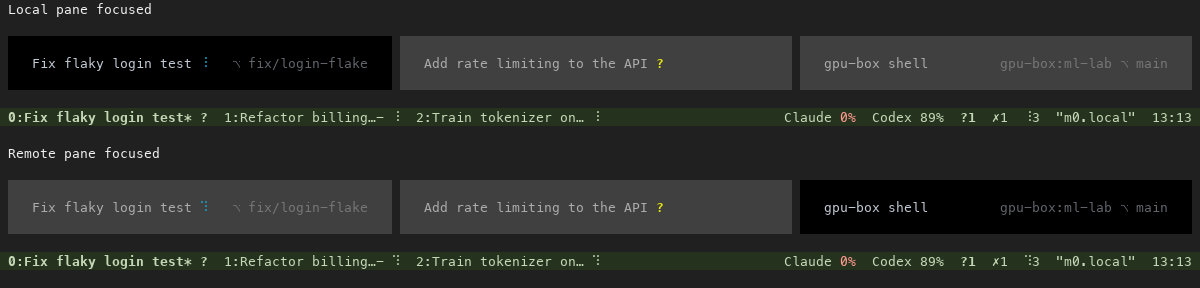
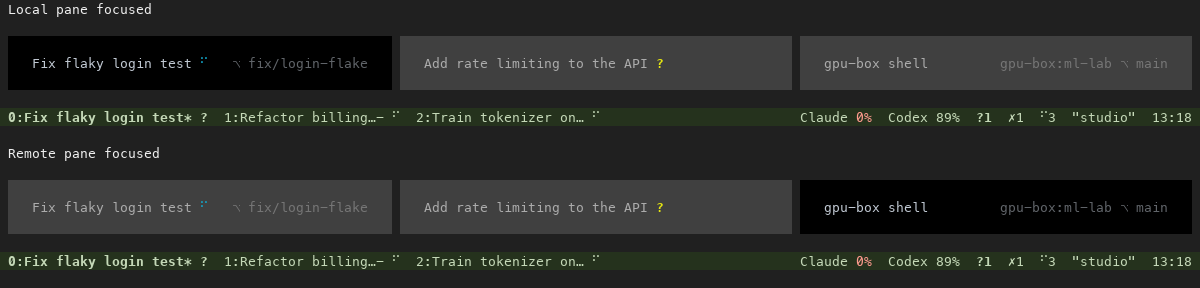
fix(hn): use the configured local machine name in the footer

Changed region(s): [[0.6475, 0.875, 0.9558, 0.9375], [0.6475, 0.375, 0.9558, 0.4375]]

diff --git a/tui/tests/pane-ui.py b/tui/tests/pane-ui.py
@@ -32,7 +32,7 @@ ENV.update(HOME=str(BASE), HN_TMPDIR=str(BASE), HN_SOCKET_NAME=PREFIX, PORT=str(
            HARNESS_TUI_NOTIFY='off', HN_DESKTOP='off', MOCK_DEMO='1', MOCK_RECONNECT='1', MOCK_USAGE='100')
 CONF = BASE / 'tmux.conf'
 CONF.write_text('set -g automatic-rename off\n'
-                'set -g status-right \'  #{usage_remaining_mark}  #{s/ /  /:fleet}  "#{=/21/…:host}"  20:41 \'\n')
+                'set -g status-right \'  #{usage_remaining_mark}  #{s/ /  /:fleet}  "#{=/21/…:local_machine}"  20:41 \'\n')
 OUTPUT = Path(os.environ['HN_PANE_UI_OUTPUT']) if os.environ.get('HN_PANE_UI_OUTPUT') else None
 if OUTPUT:
     OUTPUT.mkdir(parents=True, exist_ok=True)
@@ -223,12 +223,13 @@ try:
     hn('set', '-gu', 'status-right')
     default_status = hn('show', '-gv', 'status-right', strip=False)
     assert all(part not in default_status for part in ('pane_branch', 'pane_where', 'pane_machine', 'pane_current_path', 'pane_project', 'git:'))
-    assert value('#{host}') == socket.gethostname(), 'status host is the machine running hn'
-    host_label = value('"#{=/21/…:host}"')
-    assert host_label in value(default_status), (host_label, value(default_status))
-    def local_host_status():
+    assert value('#{host}') == socket.gethostname(), 'standard host format keeps its hostname meaning'
+    assert value('#{local_machine}') == 'studio', 'status uses the local machine name configured in the app'
+    machine_label = '"studio"'
+    assert machine_label in value(default_status), (machine_label, value(default_status))
+    def local_machine_status():
         line = tmux('capture-pane', '-p', '-t', 'test').splitlines()[-1]
-        return re.search(re.escape(host_label) + r'  \d{2}:\d{2}$', line.rstrip()) and '[' + session + ']' not in line
+        return re.search(re.escape(machine_label) + r'  \d{2}:\d{2}$', line.rstrip()) and '[' + session + ']' not in line
     def aligned_status_edges():
         line = tmux('capture-pane', '-p', '-t', 'test').splitlines()[-1]
         return re.match(r' \d+:', line) and len(line.rstrip()) == 149
@@ -240,13 +241,13 @@ try:
     for target in (third, second, first):
         hn('select-pane', '-t', target)
         assert value(default_left).strip() == ''
-        wait(local_host_status, 'quoted local host stays beside the clock across local and remote panes; no machine label on the left')
+        wait(local_machine_status, 'quoted local machine stays beside the clock across local and remote panes; no machine label on the left')
         if target in (first, third):
             snapshot('status-local' if target == first else 'status-remote')
     for window in hn('list-windows', '-F', '#{window_id}').splitlines():
         hn('select-window', '-t', window)
         assert value(default_left).strip() == ''
-        wait(local_host_status, 'quoted local host stays beside the clock in every window')
+        wait(local_machine_status, 'quoted local machine stays beside the clock in every window')
     hn('select-window', '-t', current)
     hn('select-pane', '-t', first)
     keys('C-b')
@@ -254,7 +255,7 @@ try:
     keys('Escape')
     hn('rename-session', 'work-review')
     assert value(default_left).strip() == '', 'renaming a session does not add a left label'
-    wait(local_host_status, 'renaming a session does not change the quoted host')
+    wait(local_machine_status, 'renaming a session does not change the quoted machine name')
     hn('set', '-g', 'status-left', '[custom] ')
     assert value(hn('show', '-gv', 'status-left')).strip() == '[custom]'
     hn('set', '-gu', 'status-left')

diff --git a/tui/src/options/mod.rs b/tui/src/options/mod.rs
@@ -93,12 +93,12 @@ pub fn defaults() -> &'static BTreeMap<String, String> {
         // has it] when another window has the pane to type in, and its project and branch
         // where there is room. Git context stays here; the status bar keeps the location cue.
         m.insert("pane-border-format".into(), " #{pane_heading}#{?pane_where,#[align=right] #[dim]#{pane_where} #[nodim],}".into());
-        // Window navigation on the left; connection, quota, fleet, host and clock on the
-        // right. The quoted host is this computer, independent of the focused pane.
+        // Window navigation on the left; connection, quota, fleet, machine and clock on the
+        // right. The quoted name is this computer's name in Harness, independent of focus.
         // One cell at each outer edge aligns status text with the pane surfaces.
         // Two spaces separate the window list from the information on the right.
         m.insert("status-left".into(), " #{?client_prefix,#[bold]›#[nobold] ,}".into());
-        m.insert("status-right".into(), "  #{?daemon_down,#[bold]daemon down#[nobold]  ,}#{?usage_remaining,#{usage_remaining_mark}  ,}#{?fleet,#{s/ /  /:fleet}  ,}#{?pane_watching,[watching]  ,}\"#{=/21/…:host}\"  %H:%M ".into());
+        m.insert("status-right".into(), "  #{?daemon_down,#[bold]daemon down#[nobold]  ,}#{?usage_remaining,#{usage_remaining_mark}  ,}#{?fleet,#{s/ /  /:fleet}  ,}#{?pane_watching,[watching]  ,}\"#{=/21/…:local_machine}\"  %H:%M ".into());
         // Each window's most urgent harness at a glance (the symbol its pane titles show) and its
         // name in a few whole words (#{window_short_name}): a harness is named for its task.
         // Keep tmux's familiar current/previous markers beside the name, then any other
@@ -118,7 +118,7 @@ pub fn defaults() -> &'static BTreeMap<String, String> {
         m.insert("set-titles-string".into(), "#{?fleet_needs,?#{fleet_needs} ,}#{pane_title}#{?pane_agent_state, (#{pane_agent_state}),} — Harness".into());
         // Leave room for custom status-left formats as well as the prefix cue.
         m.insert("status-left-length".into(), "24".into());
-        // Room for both subscription allowances without cutting off host and time.
+        // Room for both subscription allowances without cutting off machine name and time.
         m.insert("status-right-length".into(), "96".into());
         // Agents print a lot: ten thousand lines of scrollback (tmux keeps two).
         m.insert("history-limit".into(), "10000".into());

diff --git a/tui/src/format.rs b/tui/src/format.rs
@@ -1287,6 +1287,9 @@ fn table(app: &App, name: &str, window: usize, pane_id: Option<u64>) -> Option<V
         // gethostname(3): the whole name (mac.lan); #{host_short} is it up to the first dot.
         "host" => crate::app::full_hostname(),
         "host_short" => crate::app::full_hostname().split('.').next().unwrap_or("").to_string(),
+        // This computer's name in Harness, including app renames; never the focused pane's.
+        "local_machine" => app.fleet.machine(&app.fleet.local_id).or_else(|| app.fleet.machines.iter().find(|m| m.local))
+            .map(|m| m.name.clone()).filter(|name| !name.is_empty()).unwrap_or_else(crate::app::full_hostname),
         // Harness's own: the machine a pane is on, and how many harnesses wait on you.
         "machine" => pane.map(|p| app.fleet.machine_name(&p.machine_id)).unwrap_or_default(),
         "waiting" => app.fleet.waiting().to_string(),

diff --git a/tui/README.md b/tui/README.md
@@ -101,12 +101,13 @@ harness's name, not what the program sets), `history-limit 10000` (agents print 
 harnesses waiting on you and the one in front; `set-titles-string` changes it), and the status line:
 each window's most urgent harness state follows its name and tmux marker; idle dots are hidden
 in tabs and pane headers. Connection, quota,
-fleet counts, the quoted hostname and clock sit on the right. The git branch stays in its pane
+fleet counts, the quoted local machine name and clock sit on the right. The git branch stays in its pane
 header, aligned to the right with its PR and written `⎇ branch` without redundant punctuation.
 Status-bar groups are separated by two spaces, with one space at each outer edge to align
 with the pane surfaces. Window tabs start at the left, without a machine/session label.
-The right side shows the machine running hn, such as `"m0.local"`, independent of the
-focused pane or session name. Custom status formats and the prefix cue remain supported.
+The right side shows the machine running hn by its name in the app, such as `"office"`,
+falling back to its hostname, independent of the focused pane or session name.
+Custom status formats and the prefix cue remain supported.
 One key differs on purpose: ⇧⏎
 reaches the pane as `CSI 13;2u` (a new line in an agent's prompt; tmux, without `extended-keys`,
 sends a plain Enter).
@@ -199,7 +200,7 @@ pane counts as done and unread (`✓`) until you go to that pane.
 
 - **The status line** counts the whole fleet: `?2 ✗1 ✓5 ⠹41` means two need you, one failed,
   five are done and unread, and 41 are working. Idle ones aren't counted, and a state with none
-  drops out. The right side keeps the quoted local hostname and the clock, with two
+  drops out. The right side keeps the quoted local machine name and the clock, with two
   spaces between groups. Branch and pull request context stay in the pane header.
 - **`C-b s`** lists every harness, the most urgent nearest the prompt: needs you, failed, done and
   unread, working, then the rest. Each row has one line: the question, what it is doing now
@@ -259,7 +260,8 @@ has multiple accounts, extra remote accounts say `Claude@studio 20%` to distingu
 and Codex; Grok and other providers are not listed until a quota source is available. Existing
 `usage`, `usage_high` and `usage_high_mark` formats retain their used-quota meaning for custom
 configurations. Other formats:
-`#{pane_machine}`, `#{pane_far}` (another machine's), `#{pane_watched}` and `#{pane_watcher}`
+`#{local_machine}` (this computer's name in the app, falling back to its hostname),
+`#{pane_machine}` (the focused pane's machine), `#{pane_far}` (another machine's), `#{pane_watched}` and `#{pane_watcher}`
 (another window has the pane to type in, and who), and `#{waiting}` (the harnesses waiting on
 you).
 
